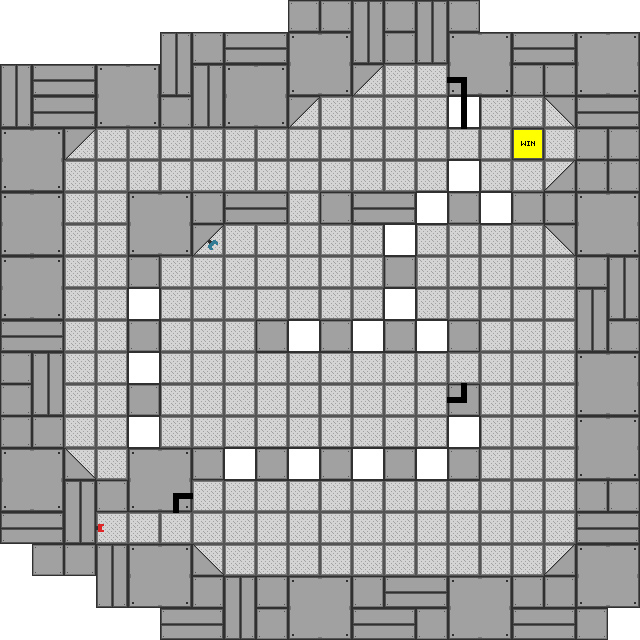
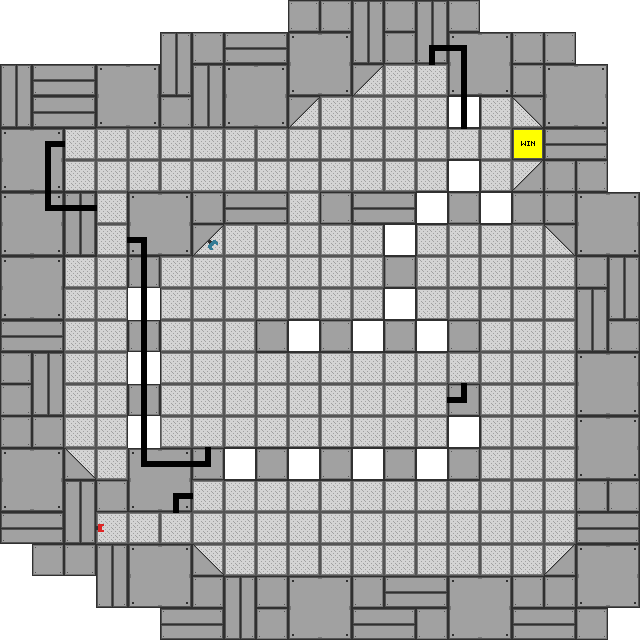
New Star

diff --git a/src/LevelData.java b/src/LevelData.java
@@ -304,13 +304,14 @@ final class LevelData {
         Game.level.doors = new Door [] {new Door(new int [] {5, 2}, 0, 'W', 0), new Door(new int [] {4, 12}, 0, 'W', 1), new Door(new int [] {5, 12}, 0, 'E', 1), new Door(new int [] {8, 8}, 0, 'S', 2)};
     }
     static void Level21 () {
-        Game.level.grid = new int [][] {{1, 1, 1, 1, 1, 1, 1, 1, 1, 1, 1, 1, 1, 1, 1, 1, 1, 1}, {1, 1, 1, 1, 1, 1, 1, 1, 1, 1, 1, 0, 0, 1, 1, 1, 1, 1}, {1, 1, 1, 1, 1, 1, 1, 1, 1, 0, 0, 0, 0, 2, 0, 0, 1, 1}, {1, 1, 0, 0, 0, 0, 0, 0, 0, 0, 0, 0, 0, 9, 0, 4, 0, 1}, {1, 0, 0, 0, 0, 0, 0, 0, 0, 0, 0, 0, 0, 2, 0, 0, 1, 1}, {1, 0, 0, 1, 1, 1, 1, 1, 0, 1, 1, 1, 2, 1, 2, 1, 1, 1}, {1, 0, 0, 1, 1, 1, 0, 0, 0, 0, 0, 2, 0, 0, 0, 0, 1, 1}, {1, 0, 0, 1, 0, 0, 0, 0, 3, 0, 0, 1, 0, 6, 0, 0, 0, 1}, {1, 0, 0, 2, 0, 0, 0, 0, 0, 0, 0, 2, 0, 0, 0, 0, 0, 1}, {1, 0, 0, 1, 0, 0, 0, 1, 2, 1, 2, 1, 2, 1, 0, 0, 0, 1}, {1, 0, 0, 2, 0, 0, 0, 0, 0, 0, 0, 0, 0, 9, 0, 0, 0, 1}, {1, 0, 0, 1, 0, 6, 0, 0, 0, 0, 0, 0, 0, 1, 0, 0, 0, 1}, {1, 0, 0, 2, 0, 0, 0, 0, 0, 0, 0, 0, 0, 2, 0, 0, 0, 1}, {1, 1, 0, 1, 1, 1, 2, 1, 2, 1, 2, 1, 2, 1, 0, 0, 0, 1}, {1, 1, 1, 1, 1, 0, 0, 0, 0, 0, 0, 0, 0, 0, 0, 0, 0, 1}, {1, 1, 0, 0, 9, 0, 0, 0, 0, 7, 0, 0, 0, 0, 0, 0, 0, 1}, {1, 1, 1, 1, 1, 1, 0, 0, 0, 0, 0, 0, 0, 0, 0, 0, 1, 1}, {1, 1, 1, 1, 1, 1, 1, 1, 1, 1, 1, 1, 1, 1, 1, 1, 1, 1}};
+        Game.level.grid = new int [][] {{1, 1, 1, 1, 1, 1, 1, 1, 1, 1, 1, 1, 1, 1, 1, 1, 1, 1}, {1, 1, 1, 1, 1, 1, 1, 1, 1, 1, 1, 0, 0, 1, 1, 1, 1, 1}, {1, 1, 1, 1, 1, 1, 1, 1, 1, 0, 0, 0, 0, 2, 0, 1, 1, 1}, {1, 0, 0, 0, 0, 0, 0, 0, 0, 0, 0, 0, 0, 9, 0, 4, 1, 1}, {1, 0, 0, 0, 0, 0, 0, 0, 0, 0, 0, 0, 0, 2, 0, 1, 1, 1}, {1, 1, 9, 1, 1, 1, 1, 1, 0, 1, 1, 1, 2, 1, 2, 1, 1, 1}, {1, 1, 9, 1, 1, 1, 0, 0, 0, 0, 0, 2, 0, 0, 0, 0, 1, 1}, {1, 0, 0, 1, 0, 0, 0, 0, 3, 0, 0, 1, 0, 6, 0, 0, 0, 1}, {1, 0, 0, 2, 0, 0, 0, 0, 0, 0, 0, 2, 0, 0, 0, 0, 0, 1}, {1, 0, 0, 1, 0, 0, 0, 1, 2, 1, 2, 1, 2, 1, 0, 0, 0, 1}, {1, 0, 0, 2, 0, 0, 0, 0, 0, 0, 0, 0, 0, 9, 0, 0, 0, 1}, {1, 0, 0, 1, 0, 6, 0, 0, 0, 0, 0, 0, 0, 1, 0, 0, 0, 1}, {1, 0, 0, 2, 0, 0, 0, 0, 0, 0, 0, 0, 0, 2, 0, 0, 0, 1}, {1, 1, 10, 1, 1, 1, 2, 1, 2, 1, 2, 1, 2, 1, 0, 0, 0, 1}, {1, 1, 1, 1, 1, 0, 0, 0, 0, 0, 0, 0, 0, 0, 0, 0, 0, 1}, {1, 1, 0, 0, 9, 0, 0, 0, 0, 7, 0, 0, 0, 0, 0, 0, 0, 1}, {1, 1, 1, 1, 1, 1, 0, 0, 0, 0, 0, 0, 0, 0, 0, 0, 1, 1}, {1, 1, 1, 1, 1, 1, 1, 1, 1, 1, 1, 1, 1, 1, 1, 1, 1, 1}};
         Game.level.player = new Player (new int [] {8, 7});
         Game.level.boxes = new Box [] {new Box (new int [] {13, 7}), new Box (new int [] {5, 11}), new Box (new int [] {9, 15})};
-        Game.level.power = new boolean [] {false, false, false};
+        Game.level.power = new boolean [] {false, false, false, false, false};
         Game.level.transmitters = new Transmitter [] {new Transmitter (new int [] {5, 6}, "SE", 'B'), new Transmitter (new int [] {2, 15}, "E", 'R')};
-        Game.level.receivers = new Receiver [] {new Receiver (new int [] {12, 1}, "E", 'R', 0), new Receiver (new int [] {12, 11}, "E", 'B', 1), new Receiver (new int [] {5, 14}, "W", 'B', 2)};
-        Game.level.doors = new Door [] {new Door(new int [] {13, 3}, 0, 'N', 0), new Door(new int [] {13, 10}, 0, 'S', 1), new Door(new int [] {4, 15}, 0, 'N', 2)};
+        Game.level.receivers = new Receiver [] {new Receiver (new int [] {12, 1}, "N", 'R', 0), new Receiver (new int [] {12, 11}, "E", 'B', 1), new Receiver (new int [] {5, 14}, "W", 'B', 2), new Receiver (new int [] {1, 3}, "W", 'R', 3), new Receiver (new int [] {5, 12}, "S", 'B', 4)};
+        Game.level.doors = new Door [] {new Door(new int [] {13, 3}, 0, 'N', 0), new Door(new int [] {13, 10}, 0, 'S', 1), new Door(new int [] {4, 15}, 0, 'N', 2), new Door(new int [] {2, 5}, 0, 'W', 3), new Door(new int [] {2, 6}, 0, 'E', 4)};
+        Game.level.star = new Star (new int [] {2, 13});
     }
     static void Level22 () {
         Game.level.grid = new int [][] {{1, 1, 1, 1, 1, 1, 1, 1, 1, 1, 1}, {1, 1, 1, 1, 0, 9, 0, 1, 1, 1, 1}, {1, 1, 1, 0, 0, 2, 0, 0, 1, 1, 1}, {1, 0, 0, 0, 0, 2, 0, 0, 1, 1, 1}, {1, 0, 0, 6, 0, 2, 0, 6, 0, 0, 1}, {1, 0, 0, 0, 0, 2, 0, 0, 0, 1, 1}, {1, 0, 0, 3, 0, 2, 0, 0, 1, 1, 1}, {1, 1, 0, 0, 0, 2, 0, 0, 1, 1, 1}, {1, 1, 1, 1, 1, 1, 0, 1, 1, 1, 1}, {1, 1, 1, 4, 9, 0, 0, 1, 1, 1, 1}, {1, 1, 1, 1, 1, 1, 1, 1, 1, 1, 1}};

diff --git a/src/Player.java b/src/Player.java
@@ -39,6 +39,10 @@ class Player extends Object {
                 switch (Game.level.num) {
                     case 11:
                         LevelMenu.starsCollected[0] = true;
+                        break;
+                    case 21:
+                        LevelMenu.starsCollected[1] = true;
+                        break;
                 }
                 this.move();
             } else if (isBox(temp)) {

diff --git a/src/Panel.java b/src/Panel.java
@@ -58,6 +58,9 @@ class Panel extends JPanel implements ActionListener {
             if (LevelMenu.starsCollected[0]) {
                 g2d.drawImage(Images.star, 724, 264, Game.panel);
             }
+            if (LevelMenu.starsCollected[1]) {
+                g2d.drawImage(Images.star, 468, 552, Game.panel);
+            }
         }
         if (isLevel() && Game.loaded) {
             Game.level.paint(g2d);

diff --git a/src/LevelMenu.java b/src/LevelMenu.java
@@ -1,7 +1,7 @@
 import java.awt.event.MouseEvent;
 
 class LevelMenu {
-    static boolean [] starsCollected = new boolean [] {false};
+    static boolean [] starsCollected = new boolean [] {false, false};
     static void mouseClicked(MouseEvent e) {
         if (Game.gameState == 0) {
             for (int x = 0; x < 6; x ++) {
